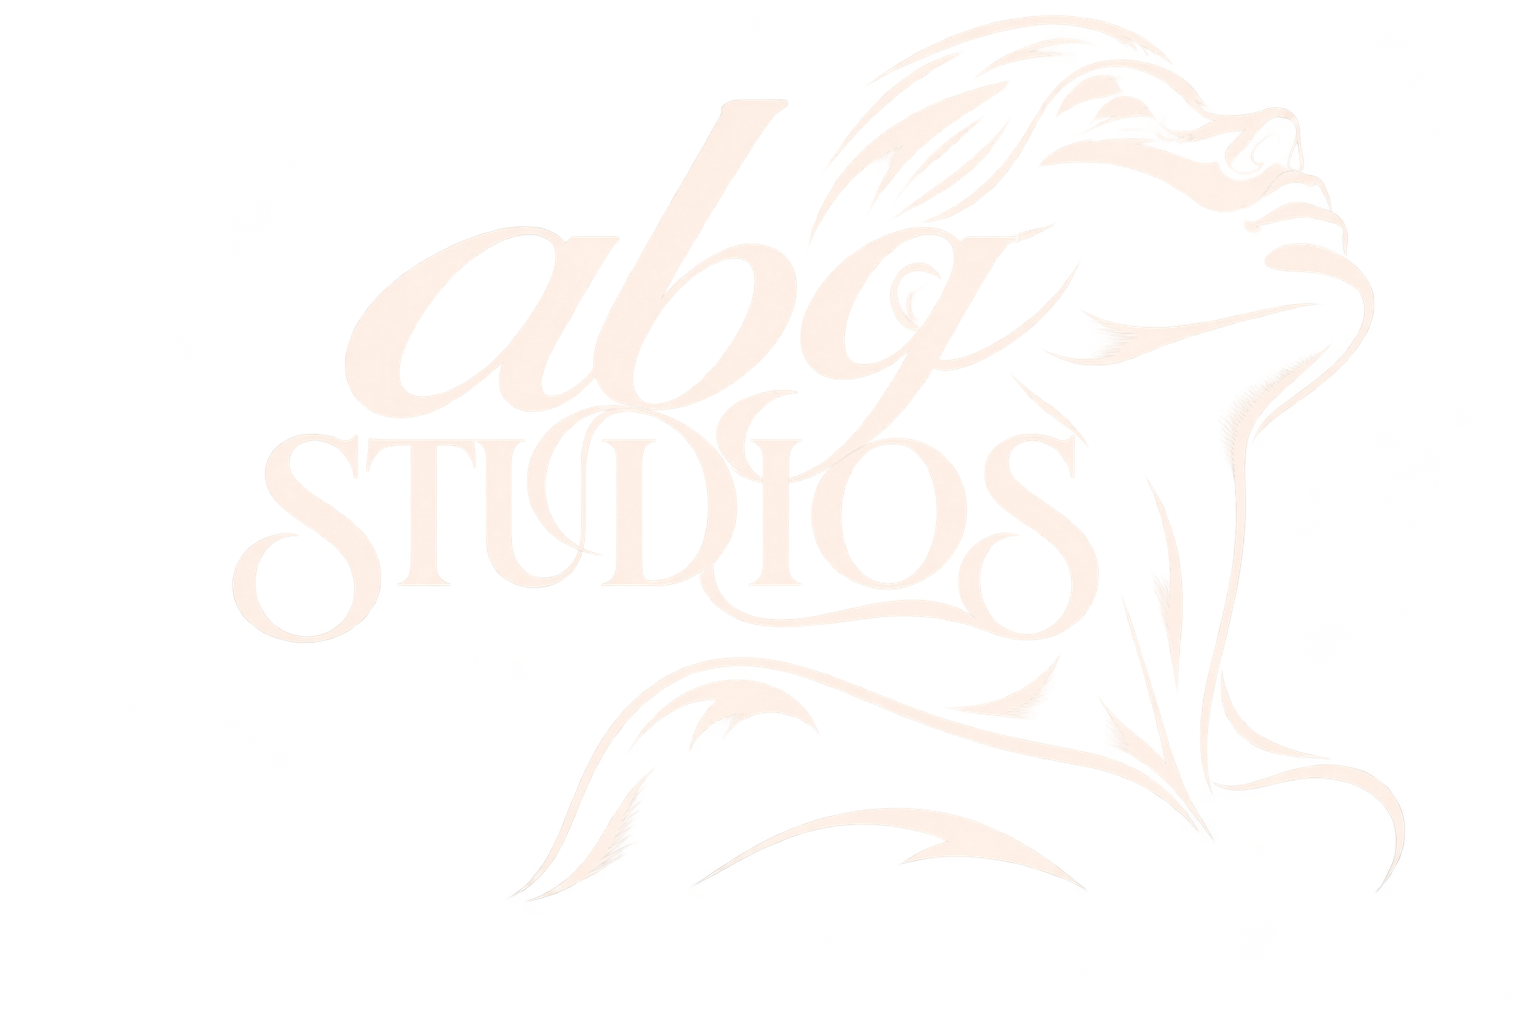
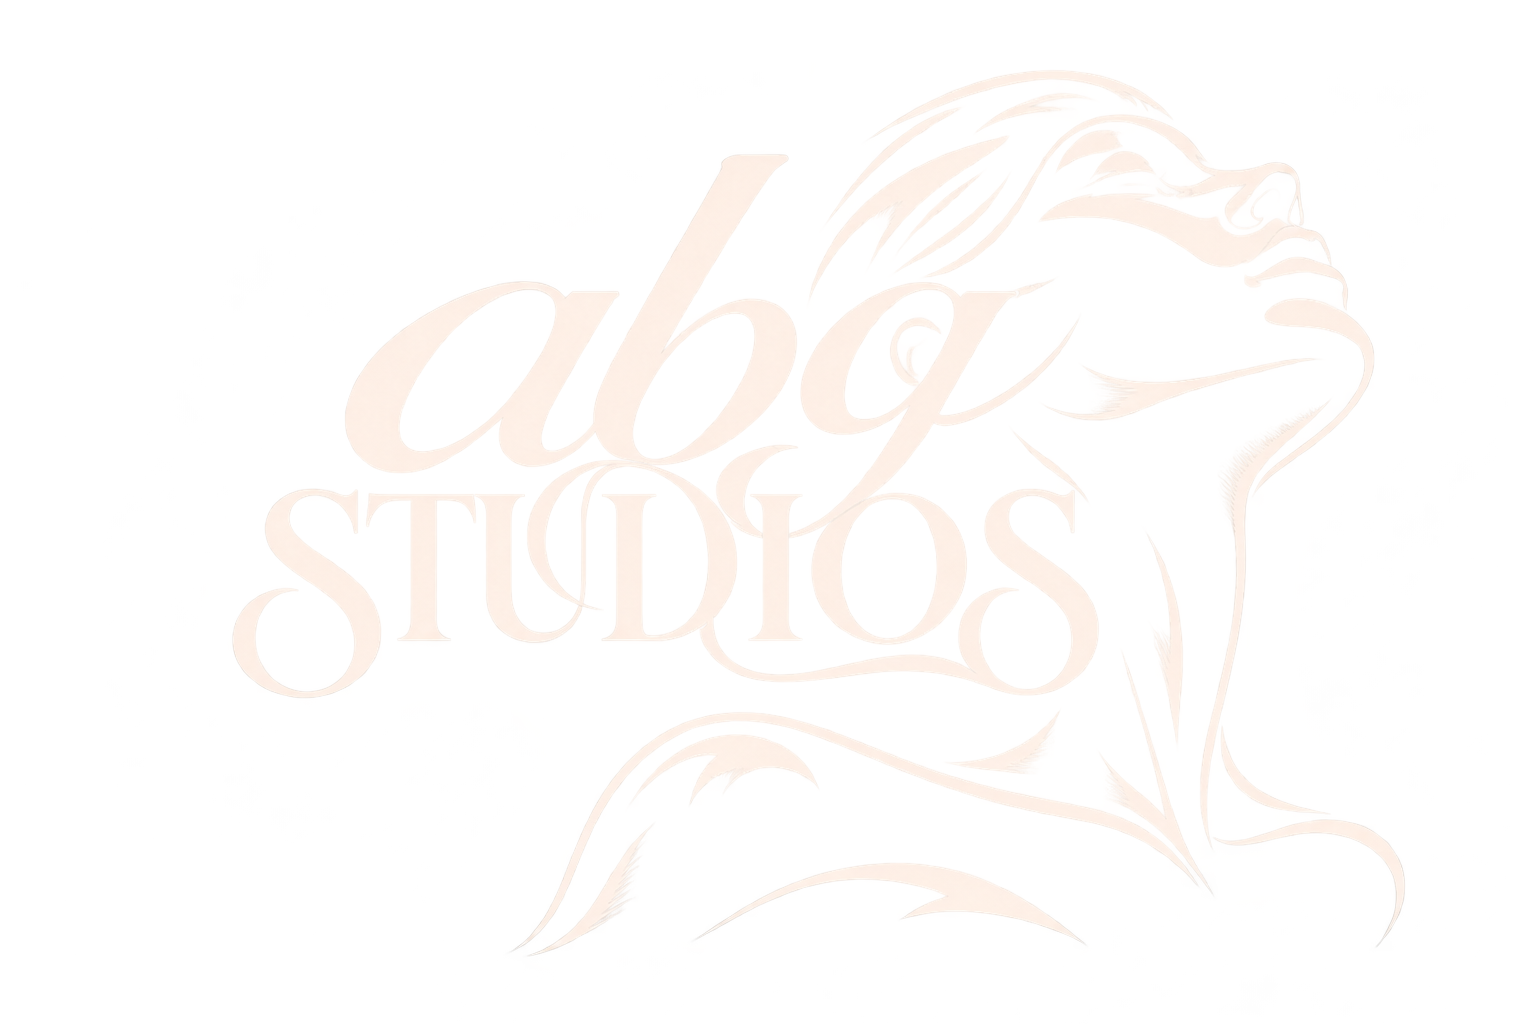
Center default ABG Studios artwork vertically

diff --git a/.cursor/skills/verify-prometheus/features/clients.md b/.cursor/skills/verify-prometheus/features/clients.md
@@ -4,4 +4,4 @@ At `/`, scroll to “Clients we're working with” below the hero. Furniture Ody
 
 Run `node .cursor/skills/verify-prometheus/scripts/verify.mjs clients` and repeat with `--mobile` and `--reduced-motion`.
 
-The journey checks all six artwork files load, the cream ABG Studios portrait artwork in its default state, the supplied metallic artwork on hover, restoration after pointer exit, and the same reveal when Tab moves from Piercing Corner to ABG Studios. It also checks horizontal overflow. Inspect screenshots for spacing, legibility and clipping. Reduced motion should reveal without transition. Phone-sized automation uses a mouse; physical touch hover is not asserted.
+The journey checks all six artwork files load, the cream ABG Studios portrait artwork in its default state, the supplied metallic artwork on hover, restoration after pointer exit, and the same reveal when Tab moves from Piercing Corner to ABG Studios. It also checks horizontal overflow. Inspect screenshots for spacing, legibility and clipping. The default ABG portrait has balanced transparent space above and below; confirm it sits vertically centered in the frame. Reduced motion should reveal without transition. Phone-sized automation uses a mouse; physical touch hover is not asserted.
